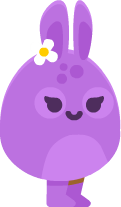
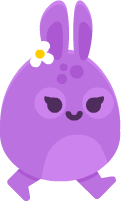
super commit

diff --git a/website/player.js b/website/player.js
@@ -4,16 +4,35 @@ function player()
   this.x = 100
   this.y = 100
   this.diam = 50
+  this.height = 50 * 5/3
   this.velx=0
   this.vely= gravity
   this.jumpCount=2
+  this.dir=0
+
 
   //draws the circle
   this.show = function()
   {
     fill(250,150,100)
     //ellipse(this.x,this.y,this.diam,this.diam)
-    image(bunny1[0], this.x, this.y, this.diam, this.diam)
+    if(this.velx > 0)
+    {
+      this.dir = 0
+    }
+    if(this.velx < 0)
+    {
+      this.dir = 1
+    }
+    if(this.velx != 0)
+    {
+      //walking
+      var sprite = (Math.floor(frameCount/7))%2
+      image(bunny1[this.dir][sprite], this.x, this.y, this.diam, this.diam*5/3)
+    }else{
+      //standing
+      image(bunny1[this.dir][0], this.x, this.y, this.diam, this.diam*5/3)
+    }
     //this.update()
   }
   //moves the circle
@@ -56,13 +75,13 @@ function player()
   }
   this.collideY = function(wally)
   {
-    if(this.y-(this.diam/2) <= wally.y +wally.height && this.y+(this.diam/2) >= wally.y+ wally.height && this.x >wally.x && this.x <wally.x+wally.width)
+    if(this.y-(this.height/2) <= wally.y +wally.height && this.y+(this.height/2) >= wally.y+ wally.height && this.x >wally.x && this.x <wally.x+wally.width)
     {
-      this.y =wally.y+wally.height+(this.diam/2)
+      this.y =wally.y+wally.height+(this.height/2)
     }
-    if(this.y+(this.diam/2) >= wally.y && this.y+(this.diam/2) <= wally.y+wally.height && this.x >wally.x && this.x< wally.x+ wally.width)
+    if(this.y+(this.height/2) >= wally.y && this.y+(this.height/2) <= wally.y+wally.height && this.x >wally.x && this.x< wally.x+ wally.width)
     {
-      this.y =wally.y-(this.diam/2)
+      this.y =wally.y-(this.height/2)
       this.jumpCount = 2
     }
   }

diff --git a/website/sketch.js b/website/sketch.js
@@ -3,21 +3,29 @@ var speed = 8
 var mee;
 var pl= [];
 
-var bunny1 = []
+var bunny1 = [[],[]]
 var bunny2 = []
-
+var earth = []
 
 function setup()
 {
-  bunny1.push(loadImage("img/bunny11.png"))
-  bunny1.push(loadImage("img/bunny12.png"))
+  imageMode(CENTER)
+  bunny1[0].push(loadImage("img/bunny111.png"))
+  bunny1[0].push(loadImage("img/bunny121.png"))
+  bunny1[1].push(loadImage("img/bunny112.png"))
+  bunny1[1].push(loadImage("img/bunny122.png"))
   bunny2.push(loadImage("img/bunny21.png"))
   bunny2.push(loadImage("img/bunny22.png"))
+  earth.push(loadImage("img/platformBig.png"))
+  earth.push(loadImage("img/platformSmall.png"))
+  earth.push(loadImage("img/platformBigV.png"))
+  earth.push(loadImage("img/platformSmallV.png"))
 
   createCanvas(800,600)
   mee = new player();
-  pl.push(new wall(400,100,100,300));
-  pl.push(new wall(0,500,600,100));
+  imageMode(CORNER)
+  pl.push(new wall(400,100,false,false));
+  pl.push(new wall(0,500,false,false));
 }
 function draw()
 {

diff --git a/website/wall.js b/website/wall.js
@@ -1,14 +1,30 @@
-function wall(x,y,w,h)
+function wall(x,y,small, vertical)
 {
   this.x=x
   this.y=y
-  this.width=w
-  this.height=h
+  this.width = 0
+  this.height = 0
+  this.small = small
+  this.vertical = vertical
+  this.image = 0
+  if(vertical)
+  {
+    this.image += 2
+  }
+  if(small)
+  {
+    this.image++
 
+  }
   this.show = function()
   {
-    fill(100,200,100)
-    rect(this.x,this.y,this.width,this.height)
+    //fill(100,200,100)
+    this.width = earth[this.image].width/2
+    this.height = earth[this.image].height/2
+    image(earth[this.image],this.x,this.y,this.width,this.height)
+
+
+    //rect(this.x,this.y,this.width,this.height)
   }
 
   return this
